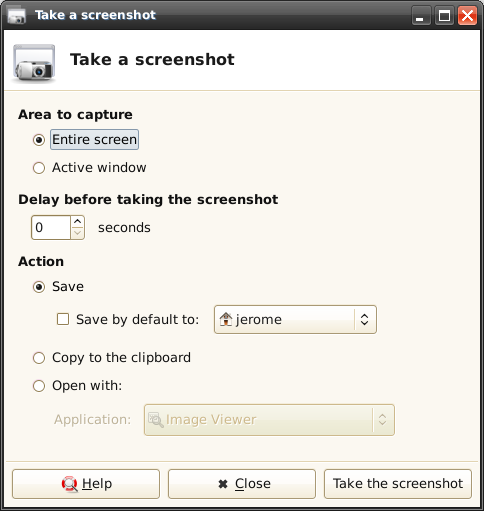
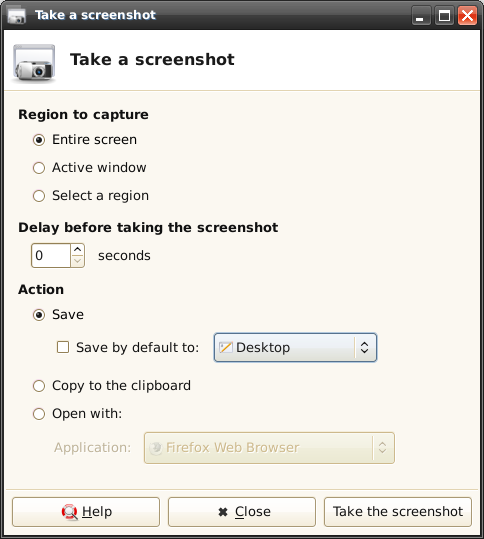
* doc/C/images: update the screenshot.   * doc/C/xfce4-screenshooter.html:     - update with the new options     - apply a patch by David Mohr to improve some parts.
(Old svn revision: 6336)

Changed region(s): [[0.0, 0.0, 0.9917, 0.8513], [0.0, 0.7926, 0.9917, 0.998], [0.4339, 0.5871, 0.8058, 0.6751]]

diff --git a/doc/C/xfce4-screenshooter.html b/doc/C/xfce4-screenshooter.html
@@ -7,15 +7,15 @@
 
 <body>
 
-<h1>Help for the Xfce screenshot tool</h1>
+<h1>Help for Xfce4 Screenshooter</h1>
 
 <h2>Introduction</h2>
 
-<p>This application allows you to take screenshots of the entire
-screen or of the active window. You can set the delay that elapses before 
-the screenshot is taken and the action that will be done with the
-screenshot: save it to a PNG file, copy it to the clipboard, or open
-it using another application.</p>
+<p>This application allows you to capture the entire
+screen, the active window or a selected region. You can set the delay 
+that elapses before the screenshot is taken and the action that will be done 
+with the screenshot: save it to a PNG file, copy it to the clipboard, 
+or open it using another application.</p>
 
 <p>A plugin for the Xfce panel is also available.</p>
 
@@ -30,16 +30,20 @@ the <b>"Accessories"</b> category of Xfce's main menu.</p>
 
 <img src="images/xfce4-screenshooter-dialog.png" alt="The window of the application"/>
 
-<h4>Area to capture</h4>
+<h4>Region to capture</h4>
 
-<p>The <b>"Area to screenshot"</b> section allows you to set what will be
-screenshoted:
+<p>The <b>"Region to capture"</b> section allows you to set from what the 
+screenshot will be taken:
 
 <ul>
-  <li>"Entire screen" takes a screenshot of screen as you see it, in its
-  totality.</li>
-  <li>"Active window" takes a screenshot of the active window, that is
-  to say the one which was active before this dialog appeared.</li>
+  <li>"Entire screen" takes a screenshot of the whole screen as you see it.</li>
+  <li>"Active window" takes a screenshot of the active window, the one which was active 
+  before this dialog appeared, or if you set a delay, the one that is
+  active after the delay.</li>
+  <li>"Select a region" allows you to select a region to be captured by 
+  clicking a point of the screen without releasing the mouse button, 
+  dragging your mouse to the other corner of the region, and releasing 
+  the mouse button.</li>
 </ul>
 </p>
 
@@ -60,21 +64,23 @@ with the screenshot. Three choices are available.</p>
 <p>The <b>"Save"</b> option will save the screenshot to a PNG file.
 If you check the <b>"Save by default to"</b> checkbox, the screenshot will
 be saved to the folder on the right after you press the <b>"Take the screenshot"</b> 
-button, without showing any save dialog. Else, a save dialog will be 
-displayed, also showing a preview of the screenshot, you will then be 
-able to set the save location and the name of the file.
+button, without showing any save dialog. Otherwise, a save dialog will be 
+displayed, which also shows a preview of the screenshot. You will then be 
+able to set the save location, and the name of the file.
 </p>
 
 <h5>Copy to the clipboard</h5>
 
 <p>The <b>"Copy to the clipboard"</b> option allows you to paste the screenshot
-in another application, such as a word processor.</p>
+in another application, such as a word processor. You must keep the 
+application running until the paste is done, since the clipboard is 
+often lost once the application has been exited.</p>
 
 <h6>Open with</h6>
 
 <p>The <b>"Open with"</b> option saves the screenshot to the system's temporary
 directory and opens it with the application set using the dropdown list below.
-The applications which support images are automatically detected and added
+Applications which support images are automatically detected and added
 to the dropdown list.
 </p>
 
@@ -121,10 +127,10 @@ location if needed.</p>
 <h3>Adding the plugin</h3>
 
 <p>To add the plugin to the panel, right click on the panel and select
-<b>"Add New Item"</b>. Select the plugin named <b>"Take a screenshot"</b>, 
+<b>"Add New Item"</b>. Select the plugin named <b>"Screenshot"</b>, 
 and add it.</p>
 
-<h3>Setting the plugin</h3>
+<h3>Setting the plugin up</h3>
 
 <p>You can configure how screenshots are taken by right clicking on the 
 extension and selecting <b>"Configure"</b>. A preferences dialog similar
